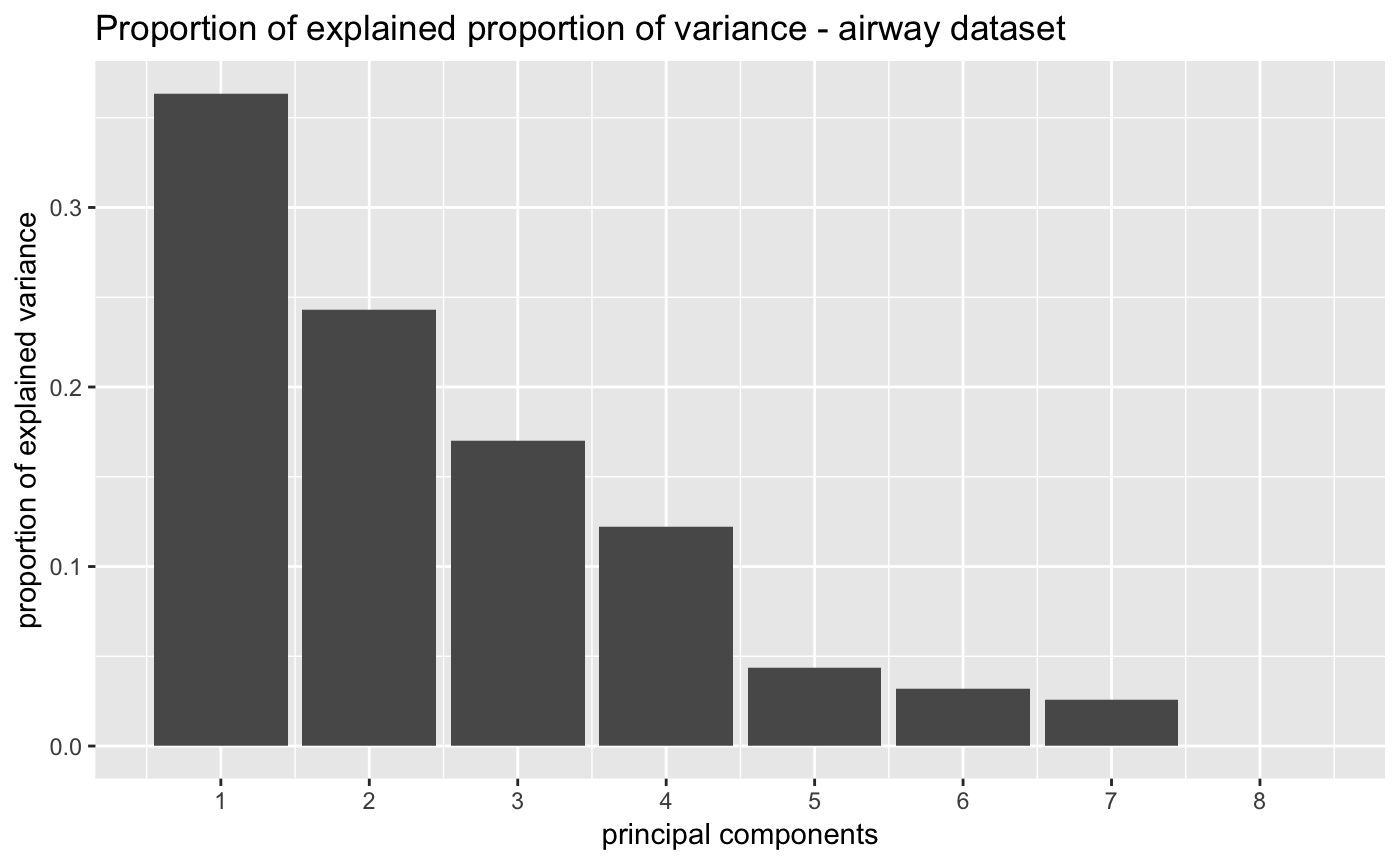
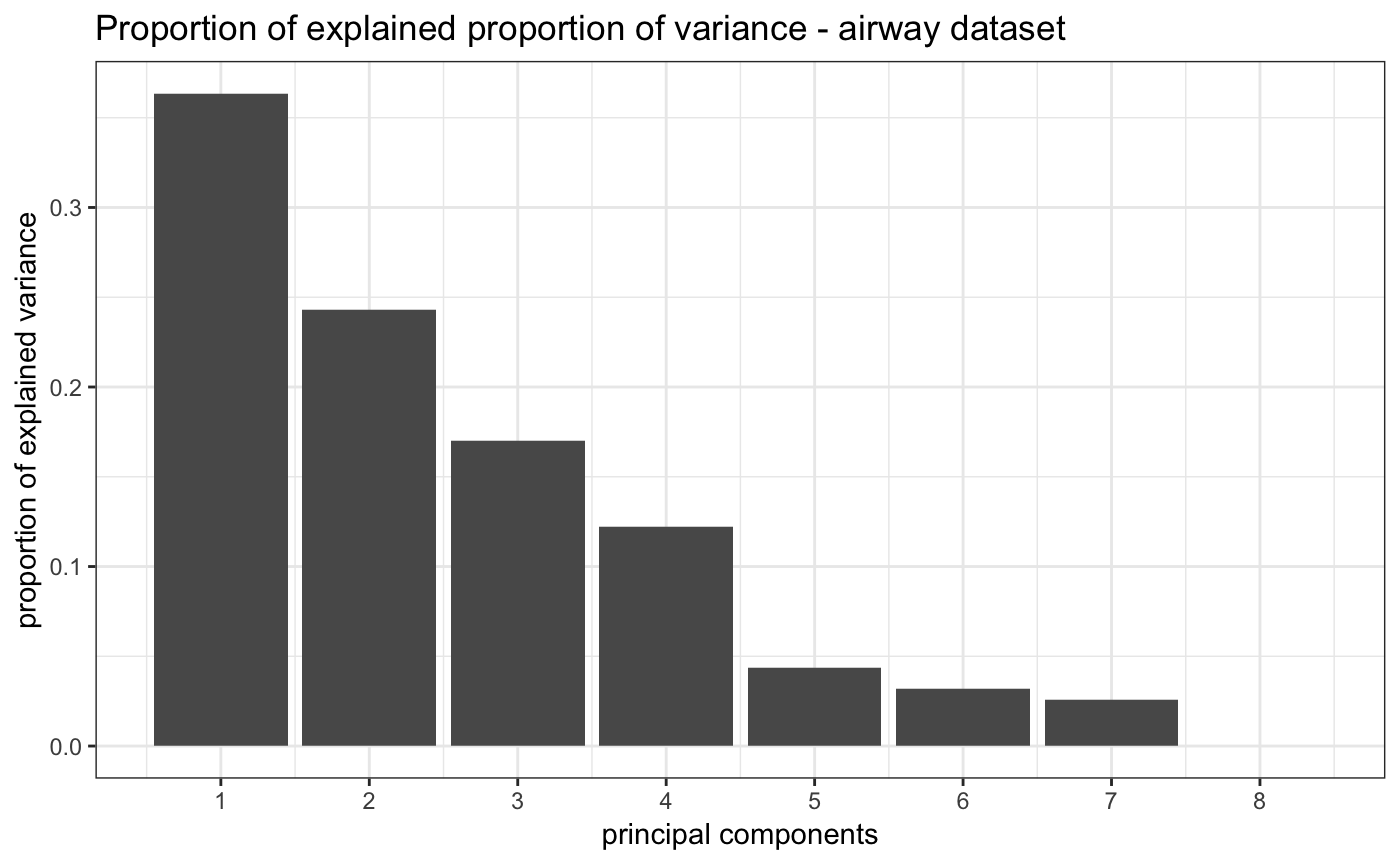
updated documentation for pkgdown website

diff --git a/docs/articles/pcaExplorer.html b/docs/articles/pcaExplorer.html
@@ -29,7 +29,7 @@
       </button>
       <span class="navbar-brand">
         <a class="navbar-link" href="../index.html">pcaExplorer</a>
-        <span class="label label-default" data-toggle="tooltip" data-placement="bottom" title="Released package">2.7.3</span>
+        <span class="label label-default" data-toggle="tooltip" data-placement="bottom" title="Released package">2.7.4</span>
       </span>
     </div>
 
@@ -74,7 +74,7 @@
                         <h4 class="author">
 <strong>Federico Marini</strong> (<a href="mailto:marinif@uni-mainz.de">marinif@uni-mainz.de</a>) and <strong>Harald Binder</strong> Institute of Medical Biostatistics, Epidemiology and Informatics (IMBEI), Mainz  Center for Thrombosis and Hemostasis (CTH), Mainz</h4>
             
-            <h4 class="date">27 September 2018</h4>
+            <h4 class="date">17 October 2018</h4>
       
       <small class="dont-index">Source: <a href="https://github.com/federicomarini/pcaExplorer/blob/master/vignettes/pcaExplorer.Rmd"><code>vignettes/pcaExplorer.Rmd</code></a></small>
       <div class="hidden name"><code>pcaExplorer.Rmd</code></div>
@@ -87,7 +87,7 @@
       <p><em><a href="https://bioconductor.org/packages/3.8/pcaExplorer">pcaExplorer</a></em> provides functionality for interactive visualization of RNA-seq datasets based on Principal Components Analysis. Such methods allow for quick information extraction and effective data exploration. A Shiny application encapsulates the whole analysis, and is developed to become a practical companion for any RNA-seq dataset. This app supports reproducible research with state saving and automated report generation.</p>
     </div>
     
-<p><br><strong>Package</strong>: <em>pcaExplorer</em><br><strong>Authors</strong>: Federico Marini [aut, cre]<br><strong>Version</strong>: 2.7.2<br><strong>Compiled date</strong>: 2018-09-27<br><strong>License</strong>: MIT + file LICENSE<br></p>
+<p><br><strong>Package</strong>: <em>pcaExplorer</em><br><strong>Authors</strong>: Federico Marini [aut, cre]<br><strong>Version</strong>: 2.7.3<br><strong>Compiled date</strong>: 2018-10-17<br><strong>License</strong>: MIT + file LICENSE<br></p>
 <script type="text/javascript">
 document.addEventListener("DOMContentLoaded", function() {
   document.querySelector("h1").className = "title";
@@ -737,12 +737,12 @@ attached base packages:
 
 other attached packages:
  [1] org.Hs.eg.db_3.6.0          AnnotationDbi_1.43.1       
- [3] DESeq2_1.21.21              airway_0.115.0             
- [5] SummarizedExperiment_1.11.6 DelayedArray_0.7.42        
- [7] BiocParallel_1.15.12        matrixStats_0.54.0         
- [9] GenomicRanges_1.33.14       GenomeInfoDb_1.17.1        
-[11] IRanges_2.15.18             S4Vectors_0.19.19          
-[13] pcaExplorer_2.7.2           Biobase_2.41.2             
+ [3] DESeq2_1.21.23              airway_1.1.0               
+ [5] SummarizedExperiment_1.11.6 DelayedArray_0.7.48        
+ [7] BiocParallel_1.15.15        matrixStats_0.54.0         
+ [9] GenomicRanges_1.33.14       GenomeInfoDb_1.17.3        
+[11] IRanges_2.15.18             S4Vectors_0.19.22          
+[13] pcaExplorer_2.7.3           Biobase_2.41.2             
 [15] BiocGenerics_0.27.1         knitr_1.20                 
 [17] BiocStyle_2.9.6            
 
@@ -751,42 +751,42 @@ loaded via a namespace (and not attached):
   [4] NMF_0.21.0             plyr_1.8.4             igraph_1.2.2          
   [7] lazyeval_0.2.1         GSEABase_1.43.1        shinydashboard_0.7.0  
  [10] splines_3.5.0          crosstalk_1.0.0        ggplot2_3.0.0         
- [13] gridBase_0.4-7         digest_0.6.17          foreach_1.4.4         
+ [13] gridBase_0.4-7         digest_0.6.18          foreach_1.4.4         
  [16] htmltools_0.3.6        GO.db_3.6.0            magrittr_1.5          
  [19] checkmate_1.8.5        memoise_1.1.0          cluster_2.0.7-1       
- [22] doParallel_1.0.11      limma_3.37.7           annotate_1.59.1       
+ [22] doParallel_1.0.14      limma_3.37.10          annotate_1.59.1       
  [25] pkgdown_1.1.0          prettyunits_1.0.2      colorspace_1.3-2      
  [28] blob_1.1.1             ggrepel_0.8.0          xfun_0.3              
- [31] dplyr_0.7.6            crayon_1.3.4           RCurl_1.95-4.11       
- [34] graph_1.59.0           roxygen2_6.1.0         genefilter_1.63.2     
+ [31] dplyr_0.7.7            crayon_1.3.4           RCurl_1.95-4.11       
+ [34] graph_1.59.2           roxygen2_6.1.0         genefilter_1.63.2     
  [37] bindr_0.1.1            survival_2.42-6        iterators_1.0.10      
  [40] glue_1.3.0             registry_0.5           gtable_0.2.0          
- [43] zlibbioc_1.27.0        XVector_0.21.3         Rgraphviz_2.25.1      
+ [43] zlibbioc_1.27.0        XVector_0.21.4         Rgraphviz_2.25.1      
  [46] SparseM_1.77           scales_1.0.0           pheatmap_1.0.10       
  [49] DBI_1.0.0              rngtools_1.3.1         bibtex_0.4.2          
- [52] Rcpp_0.12.18           xtable_1.8-3           progress_1.2.0        
+ [52] Rcpp_0.12.19           xtable_1.8-3           progress_1.2.0        
  [55] htmlTable_1.12         foreign_0.8-71         bit_1.1-14            
  [58] Formula_1.2-3          DT_0.4                 AnnotationForge_1.23.3
- [61] htmlwidgets_1.2        httr_1.3.1             threejs_0.3.1         
- [64] RColorBrewer_1.1-2     shinyAce_0.3.1         acepack_1.4.1         
+ [61] htmlwidgets_1.3        httr_1.3.1             threejs_0.3.1         
+ [64] RColorBrewer_1.1-2     shinyAce_0.3.2         acepack_1.4.1         
  [67] pkgconfig_2.0.2        XML_3.98-1.16          nnet_7.3-12           
- [70] locfit_1.5-9.1         labeling_0.3           tidyselect_0.2.4      
+ [70] locfit_1.5-9.1         labeling_0.3           tidyselect_0.2.5      
  [73] rlang_0.2.2            reshape2_1.4.3         later_0.7.5           
  [76] munsell_0.5.0          tools_3.5.0            RSQLite_2.1.1         
- [79] evaluate_0.11          shinyBS_0.61           stringr_1.3.1         
+ [79] evaluate_0.12          shinyBS_0.61           stringr_1.3.1         
  [82] yaml_2.2.0             bit64_0.9-7            fs_1.2.6              
  [85] purrr_0.2.5            bindrcpp_0.2.2         RBGL_1.57.0           
- [88] mime_0.5               xml2_1.2.0             biomaRt_2.37.6        
- [91] compiler_3.5.0         rstudioapi_0.7         png_0.1-7             
+ [88] mime_0.6               xml2_1.2.0             biomaRt_2.37.8        
+ [91] compiler_3.5.0         rstudioapi_0.8         png_0.1-7             
  [94] tibble_1.4.2           geneplotter_1.59.0     stringi_1.2.4         
  [97] desc_1.2.0             lattice_0.20-35        Matrix_1.2-14         
-[100] commonmark_1.5         pillar_1.3.0           BiocManager_1.30.2    
-[103] d3heatmap_0.6.1.2      data.table_1.11.6      bitops_1.0-6          
-[106] httpuv_1.4.5           R6_2.2.2               latticeExtra_0.6-28   
+[100] commonmark_1.6         pillar_1.3.0           BiocManager_1.30.3    
+[103] d3heatmap_0.6.1.2      data.table_1.11.8      bitops_1.0-6          
+[106] httpuv_1.4.5           R6_2.3.0               latticeExtra_0.6-28   
 [109] bookdown_0.7           promises_1.0.1         topGO_2.33.1          
-[112] gridExtra_2.3          codetools_0.2-15       MASS_7.3-50           
+[112] gridExtra_2.3          codetools_0.2-15       MASS_7.3-51           
 [115] assertthat_0.2.0       Category_2.47.1        pkgmaker_0.27         
-[118] rprojroot_1.3-2        withr_2.1.2            GenomeInfoDbData_1.1.0
+[118] rprojroot_1.3-2        withr_2.1.2            GenomeInfoDbData_1.2.0
 [121] hms_0.4.2              grid_3.5.0             rpart_4.1-13          
 [124] tidyr_0.8.1            rmarkdown_1.10         shiny_1.1.0           
 [127] base64enc_0.1-3       </code></pre>

diff --git a/docs/reference/correlatePCs.html b/docs/reference/correlatePCs.html
@@ -64,7 +64,7 @@ variables" />
       </button>
       <span class="navbar-brand">
         <a class="navbar-link" href="../index.html">pcaExplorer</a>
-        <span class="label label-default" data-toggle="tooltip" data-placement="bottom" title="Released package">2.7.3</span>
+        <span class="label label-default" data-toggle="tooltip" data-placement="bottom" title="Released package">2.7.4</span>
       </span>
     </div>
 
@@ -150,7 +150,7 @@ and for each principal component</p>
     <pre class="examples"><div class='input'><span class='fu'>library</span>(<span class='no'>DESeq2</span>)</div><div class='output co'>#&gt; <span class='warning'>Warning: package ‘DESeq2’ was built under R version 3.5.1</span></div><div class='output co'>#&gt; <span class='message'>Loading required package: S4Vectors</span></div><div class='output co'>#&gt; <span class='warning'>Warning: package ‘S4Vectors’ was built under R version 3.5.1</span></div><div class='output co'>#&gt; <span class='message'>Loading required package: stats4</span></div><div class='output co'>#&gt; <span class='message'></span>
 #&gt; <span class='message'>Attaching package: ‘S4Vectors’</span></div><div class='output co'>#&gt; <span class='message'>The following object is masked from ‘package:base’:</span>
 #&gt; <span class='message'></span>
-#&gt; <span class='message'>    expand.grid</span></div><div class='output co'>#&gt; <span class='message'>Loading required package: IRanges</span></div><div class='output co'>#&gt; <span class='warning'>Warning: package ‘IRanges’ was built under R version 3.5.1</span></div><div class='output co'>#&gt; <span class='message'>Loading required package: GenomicRanges</span></div><div class='output co'>#&gt; <span class='warning'>Warning: package ‘GenomicRanges’ was built under R version 3.5.1</span></div><div class='output co'>#&gt; <span class='message'>Loading required package: GenomeInfoDb</span></div><div class='output co'>#&gt; <span class='message'>Loading required package: SummarizedExperiment</span></div><div class='output co'>#&gt; <span class='warning'>Warning: package ‘SummarizedExperiment’ was built under R version 3.5.1</span></div><div class='output co'>#&gt; <span class='message'>Loading required package: DelayedArray</span></div><div class='output co'>#&gt; <span class='warning'>Warning: package ‘DelayedArray’ was built under R version 3.5.1</span></div><div class='output co'>#&gt; <span class='message'>Loading required package: matrixStats</span></div><div class='output co'>#&gt; <span class='message'></span>
+#&gt; <span class='message'>    expand.grid</span></div><div class='output co'>#&gt; <span class='message'>Loading required package: IRanges</span></div><div class='output co'>#&gt; <span class='warning'>Warning: package ‘IRanges’ was built under R version 3.5.1</span></div><div class='output co'>#&gt; <span class='message'>Loading required package: GenomicRanges</span></div><div class='output co'>#&gt; <span class='warning'>Warning: package ‘GenomicRanges’ was built under R version 3.5.1</span></div><div class='output co'>#&gt; <span class='message'>Loading required package: GenomeInfoDb</span></div><div class='output co'>#&gt; <span class='warning'>Warning: package ‘GenomeInfoDb’ was built under R version 3.5.1</span></div><div class='output co'>#&gt; <span class='message'>Loading required package: SummarizedExperiment</span></div><div class='output co'>#&gt; <span class='warning'>Warning: package ‘SummarizedExperiment’ was built under R version 3.5.1</span></div><div class='output co'>#&gt; <span class='message'>Loading required package: DelayedArray</span></div><div class='output co'>#&gt; <span class='warning'>Warning: package ‘DelayedArray’ was built under R version 3.5.1</span></div><div class='output co'>#&gt; <span class='message'>Loading required package: matrixStats</span></div><div class='output co'>#&gt; <span class='message'></span>
 #&gt; <span class='message'>Attaching package: ‘matrixStats’</span></div><div class='output co'>#&gt; <span class='message'>The following objects are masked from ‘package:Biobase’:</span>
 #&gt; <span class='message'></span>
 #&gt; <span class='message'>    anyMissing, rowMedians</span></div><div class='output co'>#&gt; <span class='message'>Loading required package: BiocParallel</span></div><div class='output co'>#&gt; <span class='warning'>Warning: package ‘BiocParallel’ was built under R version 3.5.1</span></div><div class='output co'>#&gt; <span class='message'></span>
@@ -159,7 +159,7 @@ and for each principal component</p>
 #&gt; <span class='message'>    colMaxs, colMins, colRanges, rowMaxs, rowMins, rowRanges</span></div><div class='output co'>#&gt; <span class='message'>The following objects are masked from ‘package:base’:</span>
 #&gt; <span class='message'></span>
 #&gt; <span class='message'>    aperm, apply</span></div><div class='input'><span class='no'>dds</span> <span class='kw'>&lt;-</span> <span class='fu'><a href='makeExampleDESeqDataSet_multifac.html'>makeExampleDESeqDataSet_multifac</a></span>(<span class='kw'>betaSD_condition</span> <span class='kw'>=</span> <span class='fl'>3</span>,<span class='kw'>betaSD_tissue</span> <span class='kw'>=</span> <span class='fl'>1</span>)
-<span class='no'>rlt</span> <span class='kw'>&lt;-</span> <span class='fu'><a href='http://www.rdocumentation.org/packages/DESeq2/topics/rlog'>rlogTransformation</a></span>(<span class='no'>dds</span>)
+<span class='no'>rlt</span> <span class='kw'>&lt;-</span> <span class='kw pkg'>DESeq2</span><span class='kw ns'>::</span><span class='fu'><a href='http://www.rdocumentation.org/packages/DESeq2/topics/rlog'>rlogTransformation</a></span>(<span class='no'>dds</span>)
 <span class='no'>pcaobj</span> <span class='kw'>&lt;-</span> <span class='fu'>prcomp</span>(<span class='fu'>t</span>(<span class='fu'>assay</span>(<span class='no'>rlt</span>)))
 <span class='fu'>correlatePCs</span>(<span class='no'>pcaobj</span>,<span class='fu'>colData</span>(<span class='no'>dds</span>))</div><div class='output co'>#&gt;        condition      tissue
 #&gt; PC_1 0.003947752 0.630954041

diff --git a/docs/news/index.html b/docs/news/index.html
@@ -58,7 +58,7 @@
       </button>
       <span class="navbar-brand">
         <a class="navbar-link" href="../index.html">pcaExplorer</a>
-        <span class="label label-default" data-toggle="tooltip" data-placement="bottom" title="Released package">2.7.3</span>
+        <span class="label label-default" data-toggle="tooltip" data-placement="bottom" title="Released package">2.7.4</span>
       </span>
     </div>
 
@@ -127,6 +127,8 @@
 <li>Correctly adding the resources to shinyBS, loaded via <code>.onLoad</code>, and also better placement for bstooltips</li>
 <li>Editor options start collapsed in the Report Editor tab</li>
 <li>Vignette and template report are updated to reflect the new parameter names</li>
+<li>Uniformed style for ggplot2 plots</li>
+<li>Better tooltip placement in the main page</li>
 </ul>
 </div>
 </div>

diff --git a/docs/reference/pcaExplorer-pkg.html b/docs/reference/pcaExplorer-pkg.html
@@ -63,7 +63,7 @@ extraction and effective data exploration. A Shiny application encapsulates the 
       </button>
       <span class="navbar-brand">
         <a class="navbar-link" href="../index.html">pcaExplorer</a>
-        <span class="label label-default" data-toggle="tooltip" data-placement="bottom" title="Released package">2.7.3</span>
+        <span class="label label-default" data-toggle="tooltip" data-placement="bottom" title="Released package">2.7.4</span>
       </span>
     </div>
 

diff --git a/docs/reference/topGOtable.html b/docs/reference/topGOtable.html
@@ -62,7 +62,7 @@ the algorithm and the implementation in the topGO package" />
       </button>
       <span class="navbar-brand">
         <a class="navbar-link" href="../index.html">pcaExplorer</a>
-        <span class="label label-default" data-toggle="tooltip" data-placement="bottom" title="Released package">2.7.3</span>
+        <span class="label label-default" data-toggle="tooltip" data-placement="bottom" title="Released package">2.7.4</span>
       </span>
     </div>
 

diff --git a/docs/reference/genespca.html b/docs/reference/genespca.html
@@ -62,7 +62,7 @@ the samples as in a typical biplot visualization." />
       </button>
       <span class="navbar-brand">
         <a class="navbar-link" href="../index.html">pcaExplorer</a>
-        <span class="label label-default" data-toggle="tooltip" data-placement="bottom" title="Released package">2.7.3</span>
+        <span class="label label-default" data-toggle="tooltip" data-placement="bottom" title="Released package">2.7.4</span>
       </span>
     </div>
 

diff --git a/docs/reference/pcascree.html b/docs/reference/pcascree.html
@@ -62,7 +62,7 @@ alternatively the cumulative value" />
       </button>
       <span class="navbar-brand">
         <a class="navbar-link" href="../index.html">pcaExplorer</a>
-        <span class="label label-default" data-toggle="tooltip" data-placement="bottom" title="Released package">2.7.3</span>
+        <span class="label label-default" data-toggle="tooltip" data-placement="bottom" title="Released package">2.7.4</span>
       </span>
     </div>
 

diff --git a/docs/reference/makeExampleDESeqDataSet_multifac.html b/docs/reference/makeExampleDESeqDataSet_multifac.html
@@ -63,7 +63,7 @@ and the betaSD_tissue arguments." />
       </button>
       <span class="navbar-brand">
         <a class="navbar-link" href="../index.html">pcaExplorer</a>
-        <span class="label label-default" data-toggle="tooltip" data-placement="bottom" title="Released package">2.7.3</span>
+        <span class="label label-default" data-toggle="tooltip" data-placement="bottom" title="Released package">2.7.4</span>
       </span>
     </div>
 

diff --git a/docs/reference/pcaExplorer.html b/docs/reference/pcaExplorer.html
@@ -62,7 +62,7 @@ of Principal Components Analysis" />
       </button>
       <span class="navbar-brand">
         <a class="navbar-link" href="../index.html">pcaExplorer</a>
-        <span class="label label-default" data-toggle="tooltip" data-placement="bottom" title="Released package">2.7.3</span>
+        <span class="label label-default" data-toggle="tooltip" data-placement="bottom" title="Released package">2.7.4</span>
       </span>
     </div>
 

diff --git a/docs/reference/limmaquickpca2go.html b/docs/reference/limmaquickpca2go.html
@@ -65,7 +65,7 @@ provided by the limma package" />
       </button>
       <span class="navbar-brand">
         <a class="navbar-link" href="../index.html">pcaExplorer</a>
-        <span class="label label-default" data-toggle="tooltip" data-placement="bottom" title="Released package">2.7.3</span>
+        <span class="label label-default" data-toggle="tooltip" data-placement="bottom" title="Released package">2.7.4</span>
       </span>
     </div>
 

diff --git a/docs/reference/pca2go.html b/docs/reference/pca2go.html
@@ -63,7 +63,7 @@ the topGO package" />
       </button>
       <span class="navbar-brand">
         <a class="navbar-link" href="../index.html">pcaExplorer</a>
-        <span class="label label-default" data-toggle="tooltip" data-placement="bottom" title="Released package">2.7.3</span>
+        <span class="label label-default" data-toggle="tooltip" data-placement="bottom" title="Released package">2.7.4</span>
       </span>
     </div>
 

diff --git a/docs/articles/index.html b/docs/articles/index.html
@@ -58,7 +58,7 @@
       </button>
       <span class="navbar-brand">
         <a class="navbar-link" href="../index.html">pcaExplorer</a>
-        <span class="label label-default" data-toggle="tooltip" data-placement="bottom" title="Released package">2.7.3</span>
+        <span class="label label-default" data-toggle="tooltip" data-placement="bottom" title="Released package">2.7.4</span>
       </span>
     </div>
 
